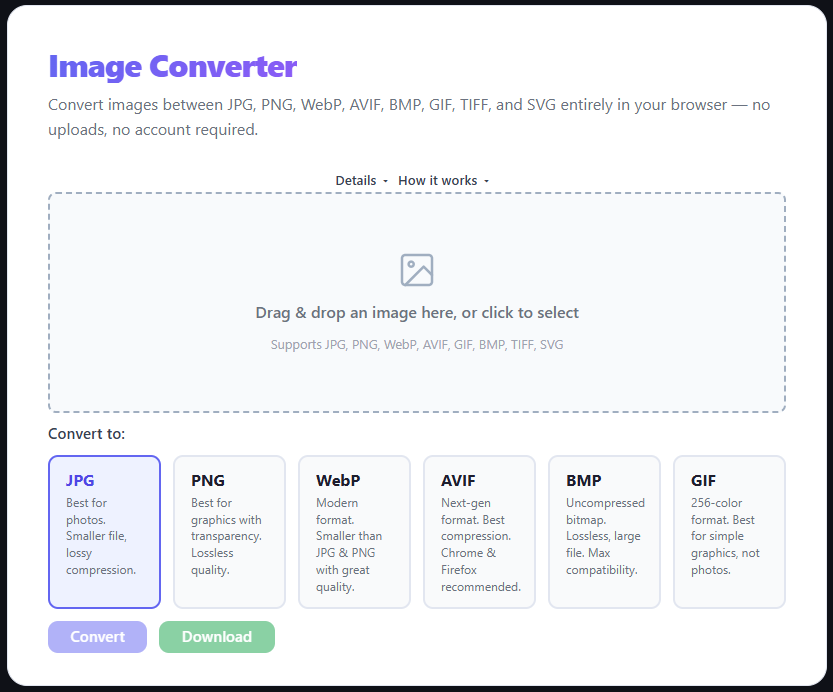
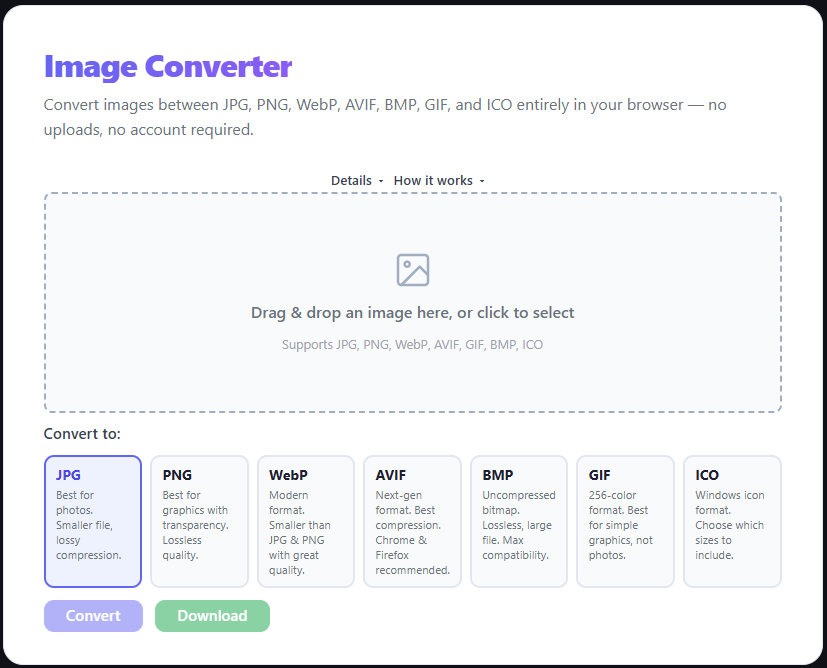
Minor screenshot changes

diff --git a/src/tools/image-converter/ImageConverterView.jsx b/src/tools/image-converter/ImageConverterView.jsx
@@ -159,7 +159,7 @@ export function ImageConverterView({
     <div className="ic-view">
       <h2 className="hero-title">Image Converter</h2>
       <p className="hero-tagline">
-        Convert images between JPG, PNG, WebP, AVIF, BMP, GIF, ICO, TIFF, and SVG entirely in your browser — no uploads, no account required.
+        Convert images between JPG, PNG, WebP, AVIF, BMP, GIF, and ICO entirely in your browser — no uploads, no account required.
       </p>
 
       {/* ── Details / How it works ── */}
@@ -217,12 +217,15 @@ export function ImageConverterView({
           <div className={openPanel !== 'howitworks' ? 'howitworks-content panel-hidden' : 'howitworks-content'}>
             <ol style={{ margin: 0, paddingLeft: '1rem' }}>
               <li style={{ marginBottom: '0.75rem' }}>
+                <img src="/screenshots/image-converter/image-converter-001.png" alt="Step 1" className="how-img" />
                 <p>Drag &amp; drop an image onto the upload area, or click it to browse for a file.</p>
               </li>
               <li style={{ marginBottom: '0.75rem' }}>
+                <img src="/screenshots/image-converter/image-converter-002.png" alt="Step 2" className="how-img" />
                 <p>Select your desired output format from the format buttons. The tool auto-selects a sensible default based on your input.</p>
               </li>
               <li style={{ marginBottom: '0.75rem' }}>
+                <img src="/screenshots/image-converter/image-converter-003.png" alt="Step 3" className="how-img" />
                 <p>Click <strong>Convert</strong> to process the image instantly in your browser.</p>
               </li>
               <li>
@@ -268,7 +271,7 @@ export function ImageConverterView({
               <polyline points="21 15 16 10 5 21"/>
             </svg>
             <span className="ic-drop-text">Drag &amp; drop an image here, or click to select</span>
-            <span className="ic-drop-hint">Supports JPG, PNG, WebP, AVIF, GIF, BMP, ICO, TIFF, SVG</span>
+            <span className="ic-drop-hint">Supports JPG, PNG, WebP, AVIF, GIF, BMP, ICO</span>
           </div>
         )}
         <input
